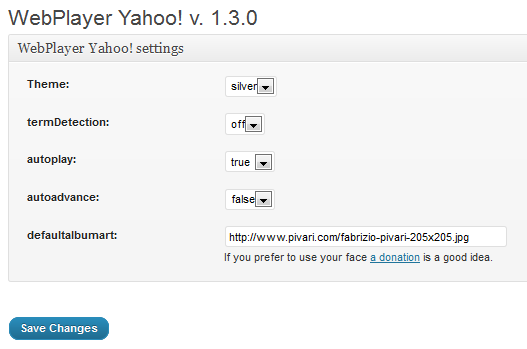
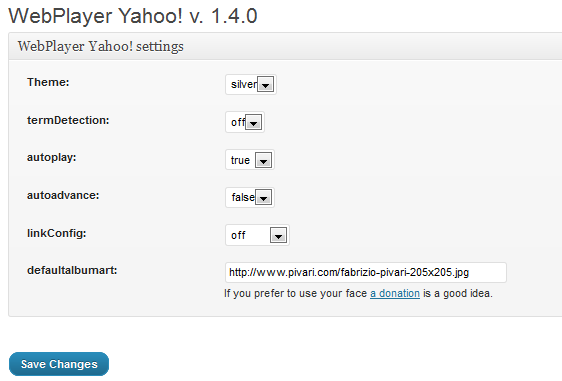
git-svn-id: https://plugins.svn.wordpress.org/webplayer-yahoo/trunk@469466 b8457f37-d9ea-0310-8a92-e5e31aec5664

diff --git a/webplayer-yahoo.php b/webplayer-yahoo.php
@@ -4,7 +4,7 @@
 Plugin Name: WebPlayer Yahoo!
 Plugin URI: http://www.pivari.com/wordpress-plugins/webplayer-yahoo-wp-plugin/
 Description: A simple Plugin to add WebPlayer Yahoo! code on your pages.
-Version: 1.3.0
+Version: 1.4.0
 Author: Fabrizio Pivari
 Author URI: http://www.pivari.com
  */
@@ -25,7 +25,7 @@ Author URI: http://www.pivari.com
     Foundation, Inc., 59 Temple Place, Suite 330, Boston, MA  02111-1307  USA
 */
 
-$version="1.3.0";
+$version="1.4.0";
 
 if (!defined('WP_CONTENT_URL'))
       define('WP_CONTENT_URL', get_option('siteurl').'/wp-content');
@@ -42,6 +42,7 @@ function activate_webplayer() {
 	add_option('autoplay', 'false');
 	add_option('autoadvance', 'true');
 	add_option('defaultalbumart', 'http://www.pivari.com/fabrizio-pivari-205x205.jpg');
+	add_option('linkConfig', 'off');
 }
 
 function deactive_webplayer() {
@@ -50,6 +51,7 @@ function deactive_webplayer() {
   delete_option('autoplay');
   delete_option('autoadvance');
   delete_option('defaultalbumart');
+  delete_option('linkConfig');
 }
 
 function admin_init_webplayer() {
@@ -58,6 +60,7 @@ function admin_init_webplayer() {
   register_setting('webplayer', 'autoplay');
   register_setting('webplayer', 'autoadvance');
   register_setting('webplayer', 'defaultalbumart');
+  register_setting('webplayer', 'linkConfig');
 }
 
 function admin_menu_webplayer() {
@@ -75,10 +78,14 @@ function webplayer() {
   $autoplay = get_option('autoplay');
   $autoadvance = get_option('autoadvance');
   $defaultalbumart = get_option('defaultalbumart');
+  $linkConfig = get_option('linkConfig');
   if ( $defaultalbumart == '' )
-      $defaultalbumart = 'http://www.pivari.com/fabrizio-pivari-205x205.jpg';
+	  $defaultalbumart = 'http://www.pivari.com/fabrizio-pivari-205x205.jpg';
+  if ( $linkConfig == 'youtube' )
+      $linkConfig = ', linkConfig:{youtube: \'ignore\'}';
+  else $linkConfig = '';
   echo "\n".'<!-- WebPlayer Yahoo! plugin v. '.$version.' (Begin) -->'."\n" ;
-  $options='<script type="text/javascript"> var YWPParams = { theme: "' . $theme . '", termDetection: "' . $termDetection. '", autoplay:' . $autoplay . ', autoadvance:' . $autoadvance . ', defaultalbumart:"' . $defaultalbumart . '" }; </script>'."\n";
+  $options='<script type="text/javascript"> var YWPParams = { theme: "' . $theme . '", termDetection: "' . $termDetection. '", autoplay:' . $autoplay . ', autoadvance:' . $autoadvance .  $linkConfig . ', defaultalbumart:"' . $defaultalbumart . '" }; </script>'."\n";
   echo $options;
   echo '<script type="text/javascript" src="http://webplayer.yahooapis.com/player-beta.js"></script>'."\n" ;
   echo '<!-- WebPlayer Yahoo! plugin v. '.$version.' (End) -->'."\n" ;

diff --git a/options.php b/options.php
@@ -43,6 +43,14 @@
     <option value="false"  <?php if (get_option('autoadvance') == 'false') echo "selected=selected" ?>>false</option>
   </select>
 </td>
+</tr><tr valign="top">
+<th scope="row"><b>linkConfig:</b></th>
+<td>
+  <select name="linkConfig">
+    <option value="off" <?php if (get_option('linkConfig') == 'off') echo "selected=selected" ?>>off</option>
+    <option value="youtube"  <?php if (get_option('linkConfig') == 'youtube') echo "selected=selected" ?>>youtube</option>
+  </select>
+</td>
 </tr>
 
 <tr valign="top">
